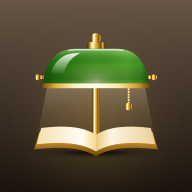
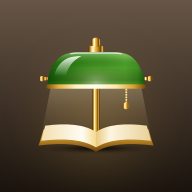
BF-19: Im maskierbaren Symbol liegt das ganze Motiv im sicheren Kreis
Die Buchecken reichten bis 85 Prozent des Radius über den sicheren Kreis von 80 Prozent.
Das Motiv ist um den Mittelpunkt auf 0,927 verkleinert, die Gestalt bleibt; alles
Sichtbare (Deckkraft ab 10 Prozent) liegt jetzt bis 78,7 Prozent. tools/symbole.py misst
das bei jedem Lauf und bricht ab, wenn das Motiv wieder über den Kreis reicht.

Changed region(s): [[0.1562, 0.1562, 0.8438, 0.8125]]

diff --git a/tools/symbole.py b/tools/symbole.py
@@ -42,6 +42,7 @@ MARKEN, SEITE = WURZEL / "src" / "stil" / "marken.css", WURZEL / "index.html"
 IPHONES = [(440, 956, 3), (420, 912, 3), (402, 874, 3), (430, 932, 3), (393, 852, 3), (428, 926, 3), (390, 844, 3), (375, 812, 3),
            (414, 896, 3), (414, 896, 2), (414, 736, 3), (375, 667, 2)]
 STARTSYMBOL = 0.3      # Breite des Symbols am Startbild, Anteil der Breite
+SICHER = 0.8           # maskierbar: alles Sichtbare im Kreis mit 80 % des Radius (Deckkraft ab 10 %)
 ANFANG, ENDE = "<!-- Startbild und Statusleiste", "<!-- /Startbild und Statusleiste -->"
 
 
@@ -62,6 +63,18 @@ def deckend(bild: Image.Image) -> Image.Image:
     """Ohne Durchsichtigkeit: iOS füllt durchsichtige Stellen sonst schwarz."""
     grund = Image.new("RGBA", bild.size, bild.getpixel((1, 1)))
     return Image.alpha_composite(grund, bild).convert("RGB")
+
+
+def pruefe_sichere_zone() -> None:
+    """Bricht ab, wenn das Motiv des maskierbaren Symbols über den sicheren Kreis reicht (BF-19); gemessen ohne den Grund."""
+    motiv = re.sub(r'<rect width="1024" height="1024"[^>]*/>', "", (QUELLEN / "maskierbar.svg").read_text(encoding="utf-8"))
+    g = 256
+    bild = Image.open(io.BytesIO(cairosvg.svg2png(bytestring=motiv.encode(), output_width=g, output_height=g))).convert("RGBA")
+    deckkraft = bild.getchannel("A").load()
+    weit = max(((x + 0.5 - g / 2) ** 2 + (y + 0.5 - g / 2) ** 2) ** 0.5 for y in range(g) for x in range(g) if deckkraft[x, y] >= 26) / (g / 2)
+    if weit > SICHER:
+        raise SystemExit(f"maskierbar.svg: das Motiv reicht bis {weit:.1%} des Radius, sicher sind {SICHER:.0%}")
+    print(f"maskierbar.svg: Motiv bis {weit:.1%} des Radius (sicher bis {SICHER:.0%})")
 
 
 def grundfarben() -> dict[str, str]:
@@ -105,6 +118,7 @@ def kopf(farben: dict[str, str], verweise: list[str]) -> None:
 
 
 def main() -> None:
+    pruefe_sichere_zone()
     for quelle, ziel in (("symbol.svg", "symbol.svg"), ("tab.svg", "favicon.svg"), ("einfarbig.svg", "einfarbig.svg")):
         shutil.copyfile(QUELLEN / quelle, ZIEL / ziel)
     ico = [rastern("tab.svg", g) for g in (48, 32, 16)]
